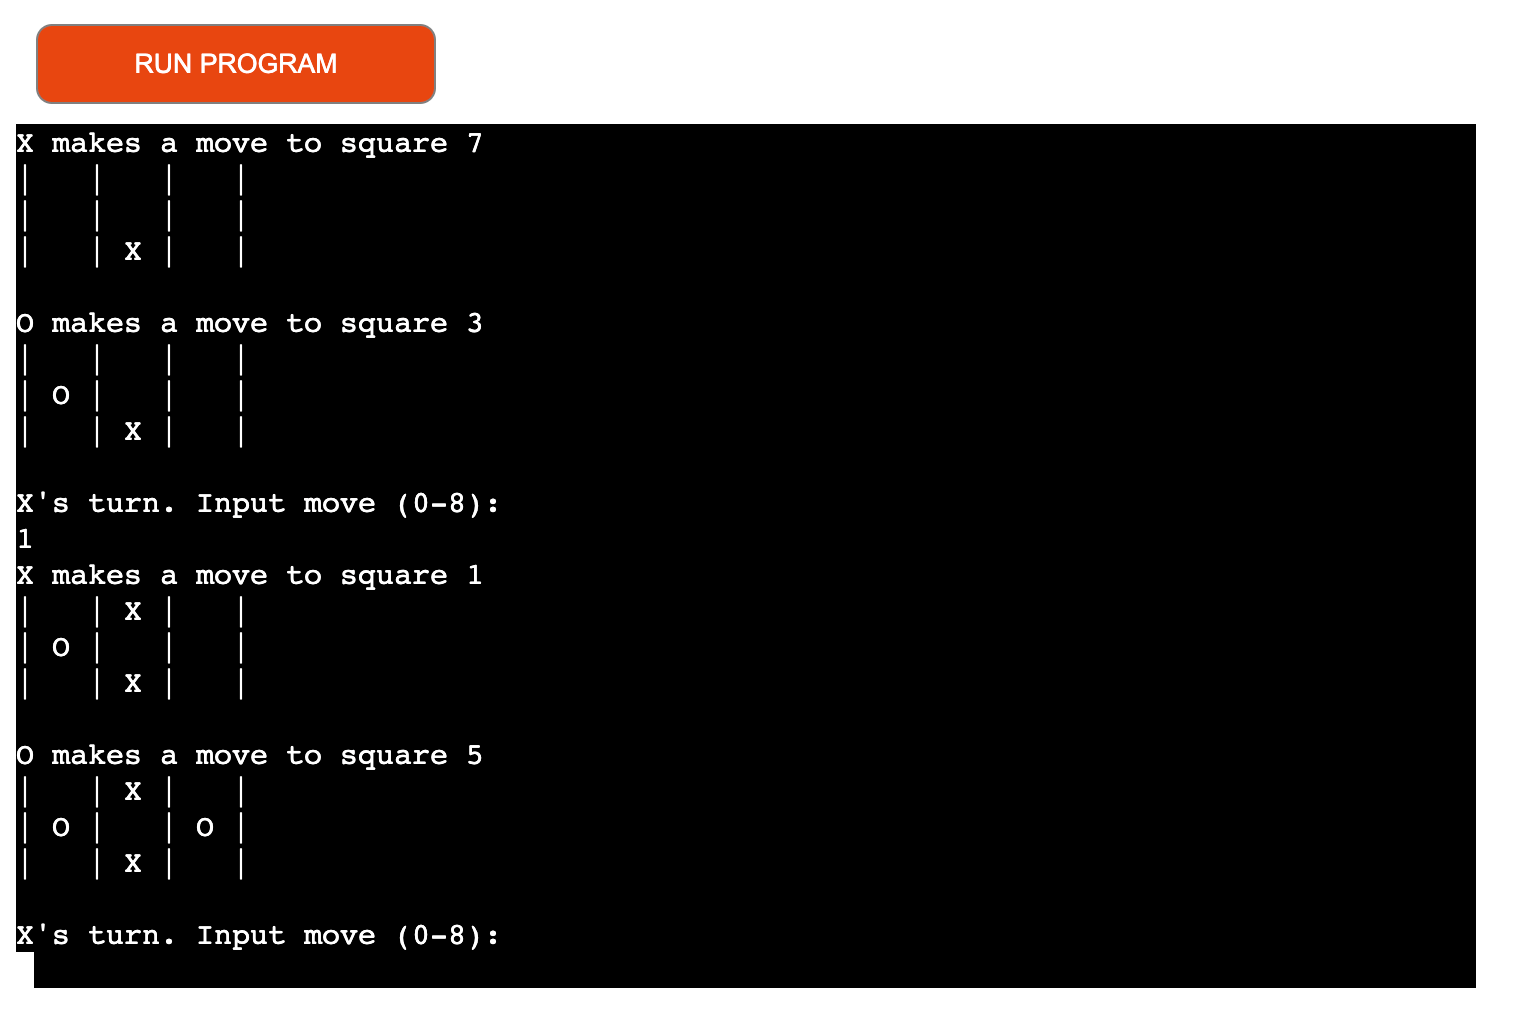
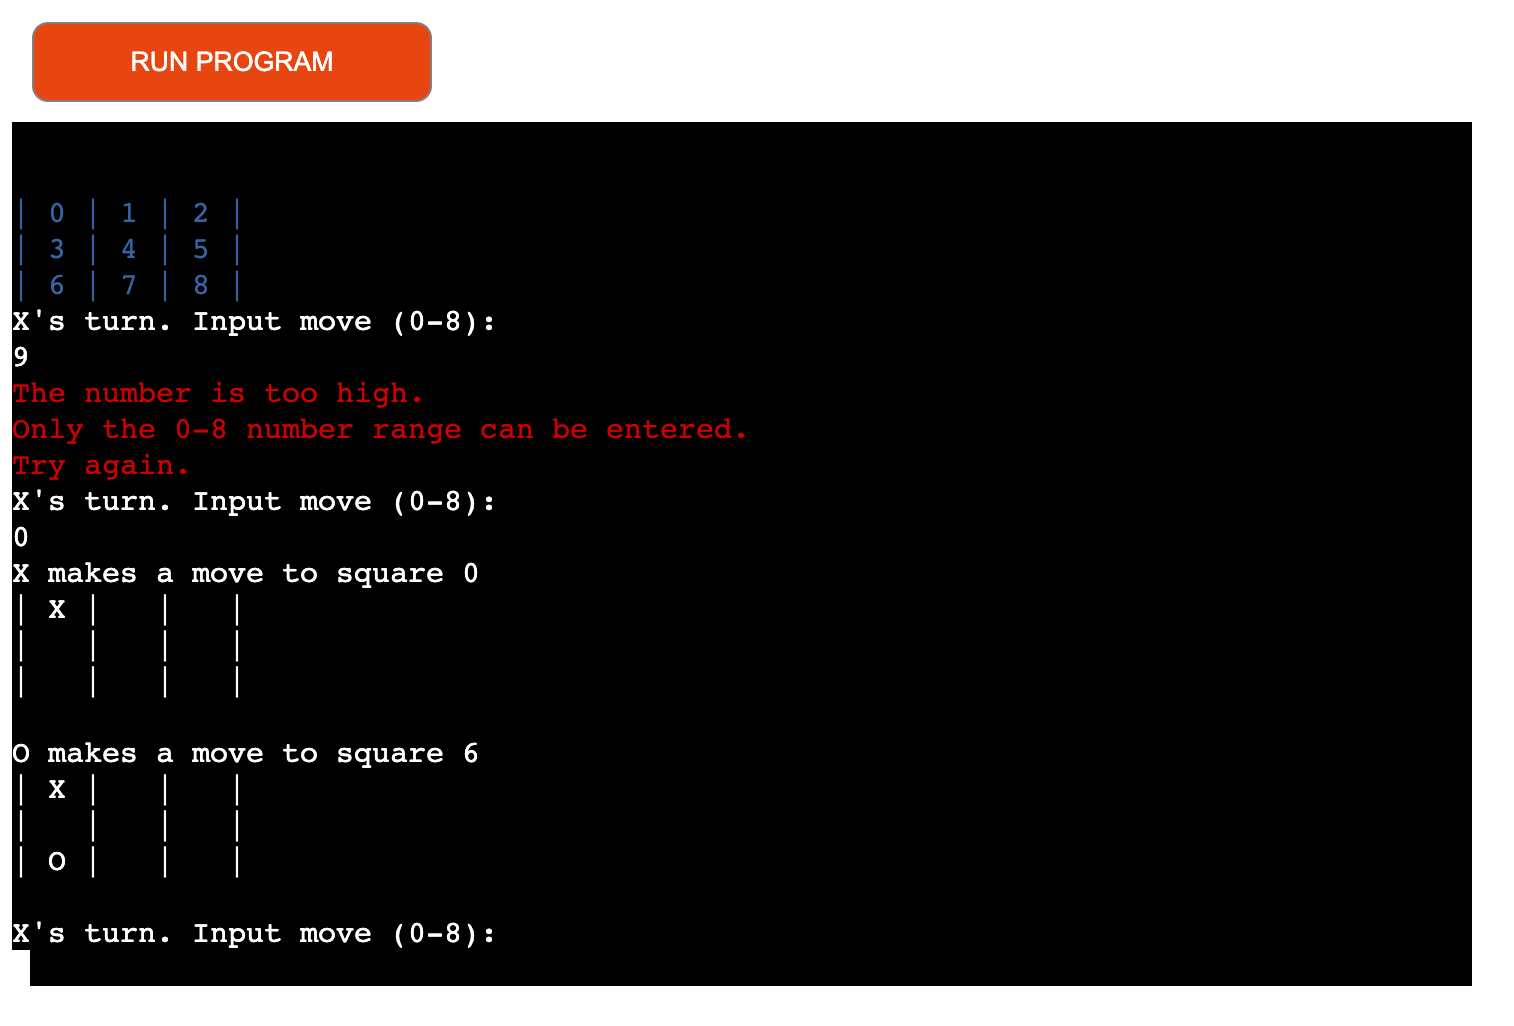
Add README.md file

diff --git a/README.md b/README.md
@@ -1,14 +1,14 @@
 # TicTacToe
+
 ![image in different device](documentation/heroku_terminal.png)
-
-The link to TicTacToe [Tic Tac Toe Heroku Link](https://tic-tac-toe-game-by-wanwisa-f2dfdd0abd2a.herokuapp.com/)
-
+The link to TicTacToe 
 The TicTacToe is a Python terminal project to foster social interaction development.TicTacToe can be used to promote several cognitive skills, including counting and spatial skills and colour and shape identification. It helps develop essential strategic thinking and planning skills. It serves as a foundation for more complex strategy games and can provide entertainment and mental stimulation for people of all ages. It reinforces basic math skills. While Tic-Tac-Toe is a simple game, it can be a valuable tool for learning. 
-Users can quickly learn the game's rules and which side they want to be on. They should continue playing the game or stop after the match ends according to the instructions.
+Users can quickly learn the game's rules and which side they want to be on. They should continue playing the game or stop after the match ends according to the instructions.[Tic Tac Toe Heroku Link](https://tic-tac-toe-game-by-wanwisa-f2dfdd0abd2a.herokuapp.com/)
+
 
 ## How to play:
 Tic-Tac-Toe is a simple game played on a 3x3 grid, and the goal is to be the first to get three of your symbols (either "X" or "O") in a row, either horizontally, vertically, or diagonally. Here are the basic instructions to play Tic-Tac-Toe:
- 1. Click this [Tic Tac Toe Heroku Link](https://tic-tac-toe-game-by-wanwisa-f2dfdd0abd2a.herokuapp.com/) or copy this text (https://tic-tac-toe-game-by-wanwisa-f2dfdd0abd2a.herokuapp.com/) and paste it into your browser's address bar.
+ 1. Click this [Tic Tac Toe Heroku Link](https://tic-tac-toe-game-by-wanwisa-f2dfdd0abd2a.herokuapp.com/) or copy this text ****https://tic-tac-toe-game-by-wanwisa-f2dfdd0abd2a.herokuapp.com/**** and paste it into your browser's address bar.
  2. When the page is loaded, click 'RUN PROGRAM'.
  3. Learn the rules.
  4. Two players typically play tic-tac-toe. One player takes "X," and the other takes "O". Pick the side they want to be on according to the instruction
@@ -21,9 +21,9 @@ Three in a row diagonally (from the top-left to the bottom-right or from the top
 
 Remember that Tic-Tac-Toe is a game with a limited number of possible moves, and with experienced players, it often ends in a draw.
 
-# User Stories
+## User Stories
 
-## First Time Visitor Goals:
+### First Time Visitor Goals:
   - As a first-time visitor, I want to quickly understand the program's primary purpose so that I can learn more about this program.
   - As a first-time visitor, I want to navigate the program quickly to find clear instructions and content about playing the game.
   - As a first-time visitor, I must provide a well-designed tutorial or onboarding process to ensure new users enjoy the game with clarity.
@@ -31,10 +31,10 @@ Remember that Tic-Tac-Toe is a game with a limited number of possible moves, and
  - As a first-time visitor, I want to find a helpful program to fulfil my Expectations.
  - As a first-time visitor, I want to see different text colors so I easily read the story.
 
-## Frequent Visitor Goals:
+### Frequent Visitor Goals:
   - As a Frequent User, I want the option to customize the game's settings, such as board size and difficulty level, and pick a side to play to tailor the game to my preferences and challenge myself with different variations. ( Future improvement)
 
-# Features
+## Features
 - When the program is loaded. The user can see a welcome message that engages them to start playing and instructions describing the game and how to play it.
 - Underneath the instruction will show the TicTacToe first game board, which has a number 0-8 in each cell and context to tell the user with a side turn and ask the user to put numbers 0-8.
 ![image of loaded page](documentation/loading_page.png)
@@ -44,16 +44,14 @@ Remember that Tic-Tac-Toe is a game with a limited number of possible moves, and
 
 - If the user puts the number less than 0, then it will print out a warning that it is an invalid number and tell who turns and puts move(number) again
 
- ![image warning invalid less than number](documentation/invalid-warning-less_number.png)
+  ![image warning invalid too small number](documentation/invalid_warning_too_small_number.png)
 
 - If the user puts the number greater than 8, then it will print out a warning that it is an invalid number and tell who turns and puts move(number) again
 
-  ![image warning invalid greater than number](documentation/invalid_warning_greater_number.png)
+  ![image warning invalid greater than number](documentation/invalid_warning_too_high_number.png)
 
 - If the user enters the correct number, it will continue to play
-  ![image of continue to play when correct number1](documentation/carry_on_play_if_correct_number.png)
-
-    ![image of continue to play when correct number2](documentation/carry_on_playing_if_correct_number.png)
+  ![image of continue to play when correct number1](documentation/carry_on_playing_if_correct_number.png)
 
 - Announcing the Winner: If any winning Combinations appear: Here are the eight possible ways to win:
     - Three in a row horizontally (across the top, middle, or bottom row).
@@ -81,17 +79,17 @@ Remember that Tic-Tac-Toe is a game with a limited number of possible moves, and
 - When the user moves arrow to quit and click enter, the program will announce "Thanks for playing the game Goodbye!!!".
    ![image](documentation/goodbye_text.png)
 
-# Flowchart
+## Flowchart
 The flowchart represents the logic of the application:
 
 ![flowchart image](documentation/flowchart_tactactoe.png)
 
-# Technologies Used
+## Technologies Used
   - python3.11.4: used to to anchor the project and direct all application behavior
   - JavaScript: used to provide the start script needed to run the Code Institute mock terminal in the browser
   - HTML: used to construction the elements involved in building the mock terminal in the browser
 
-# Frameworks/Libraries, Programmes and Tools:
+### Frameworks/Libraries, Programmes and Tools:
 ### Python module/packages:
   - random was used to implement pseudo-random number generation.
   - math was used to implement the mathematical operations.
@@ -108,24 +106,34 @@ The flowchart represents the logic of the application:
   - Git was used for the version control of the website.
   - GitHub was used to host the code of the website.
   - Excel was used to image a flowchart for the README.md file.
+  - Code Institute CI Python Linter was use to check the final code.
   - HeroKu was used to deploy the project.
+
+## CI Python Linter Check:
+![CI Python Linter Check player.py page](documentation/player_page_ci_python_linter_check.png)
+![CI Python Linter Check run.py page](documentation/run_py_page_ci_python_linter_check.png)
   ## Bugs
    - Solved bugs 
   The TicTacToe game does not loop because it places the while loop method in the wrong position. The while loop method has been placed in the bottle of the run.py page to make it work.
 
-   - Unsolved bugs
-  none
+   - The instruction content displayed the wrong literacy rule, so I have fixed it by using the f-string instead of the escape character
+    
+   ![instruction content without f-string](documentation/instruction_without_fstring.png)
 
-# Deployment
+   ![instruction content with f-string](documentation/instruction_content_with_fstring.png)
+
+  
+
+## Deployment
   - The program was deployed to [Heroku Link](https://dashboard.heroku.com/apps/tic-tac-toe-game-by-wanwisa/deploy/github)
   - The program can be reached by the link [Link To Play Game](https://tic-tac-toe-game-by-wanwisa-f2dfdd0abd2a.herokuapp.com/)
 
- ## To deploy the project as an application that can be run locally:
+ ### To deploy the project as an application that can be run locally:
  Note:
   1. This project requires you to have Python and nodeJS installed on your local PC:
-    - sudo apt install python3
+    - sudo apt-get install python3
   1. You will also need pip installed to allow the installation of modules the application uses.
-    - sudo apt install python3-pip
+    - sudo apt-get install python3-pip
   
 Create a local copy of the GitHub repository by following one of the two processes below:
   - Download ZIP file:
@@ -147,15 +155,16 @@ Create a local copy of the GitHub repository by following one of the two process
          - Or you can follow the link underneath
             [python package library simple term menu link](https://pypi.org/project/simple-term-menu/)
 
-### The app was initially deployed to Heroku then moved to Render if Heroku has remove its free tier service
+### The app was initially deployed to Heroku
 
-# To deploy the project to Heroku so it can ve run as a remote web application:
+#### To deploy the project to Heroku so it can be run as a remote web application:
   - Clone the repository:
     - Open the folder on your computer with the terminal.
     - Run the following command 
-      - https://github.com/Kay13051976/tic-tac-toe.git
-    - Run the command git remote set-url origin <Your GitHub Repo Path> to set the remote repository location to your repository
-    - Push the files to your repository with the following command: git push 
+      : git clone https://github.com/Kay13051976/tic-tac-toe.git
+    - Run the command git remote set-url origin to set the remote repository location to your repository
+    - Push the files to your repository with the following command. 
+      : git push 
     - Create a Heroku account if you don't already have one
 
       here [Heroku](https://signup.heroku.com/)
@@ -174,7 +183,7 @@ Create a local copy of the GitHub repository by following one of the two process
      
      - Link your GitHub account and connect the application to your created  repository.
 
-       ![Connect github account to heroku applicatin](documentation/link_github_account_to_heroku.png)
+       ![Connect github account to heroku application](documentation/link_github_account_to_heroku.png)
 
      - Go to the setting tab.
 
@@ -195,7 +204,10 @@ Create a local copy of the GitHub repository by following one of the two process
 
        ![Wait for deploy branch](documentation/wait_for_deploy_branch.png)
 
-     - To check the deployment completion, Get back to the dashboard and select the application name you want to open.
+     - Then click view to view the game and try.
+        ![view the game in heroku](documentation/view_game_in_heroku.png)
+
+     - Or to check the deployment completion, Get back to the dashboard and select the application name you want to open.
 
        ![Heroku dashboard](documentation/heroku_dashboard.png)
 
@@ -205,13 +217,13 @@ Create a local copy of the GitHub repository by following one of the two process
 
     - You will see the welcome first-page display on the screen if everything has been completed.
 
-      ![Welcome tictactoe first page](documentation/welcome_tictactoe_fiest_page.png)
+      ![Welcome to TicTacToe first page](documentation/welcome_tictactoe_fiest_page.png)
 
-  # Credits
+  ## Credits
     - Color formatting: Colorama.
     - Terminal menu: Sample Term Menu.
 
-  # Acknowledgements
+  ## Acknowledgements
 
     - I am enormously thankful to my mentor Julia Konovalova, for her guidance and valuable feedback.
     - Code Institute tutor and Slack community members for their support and help.
